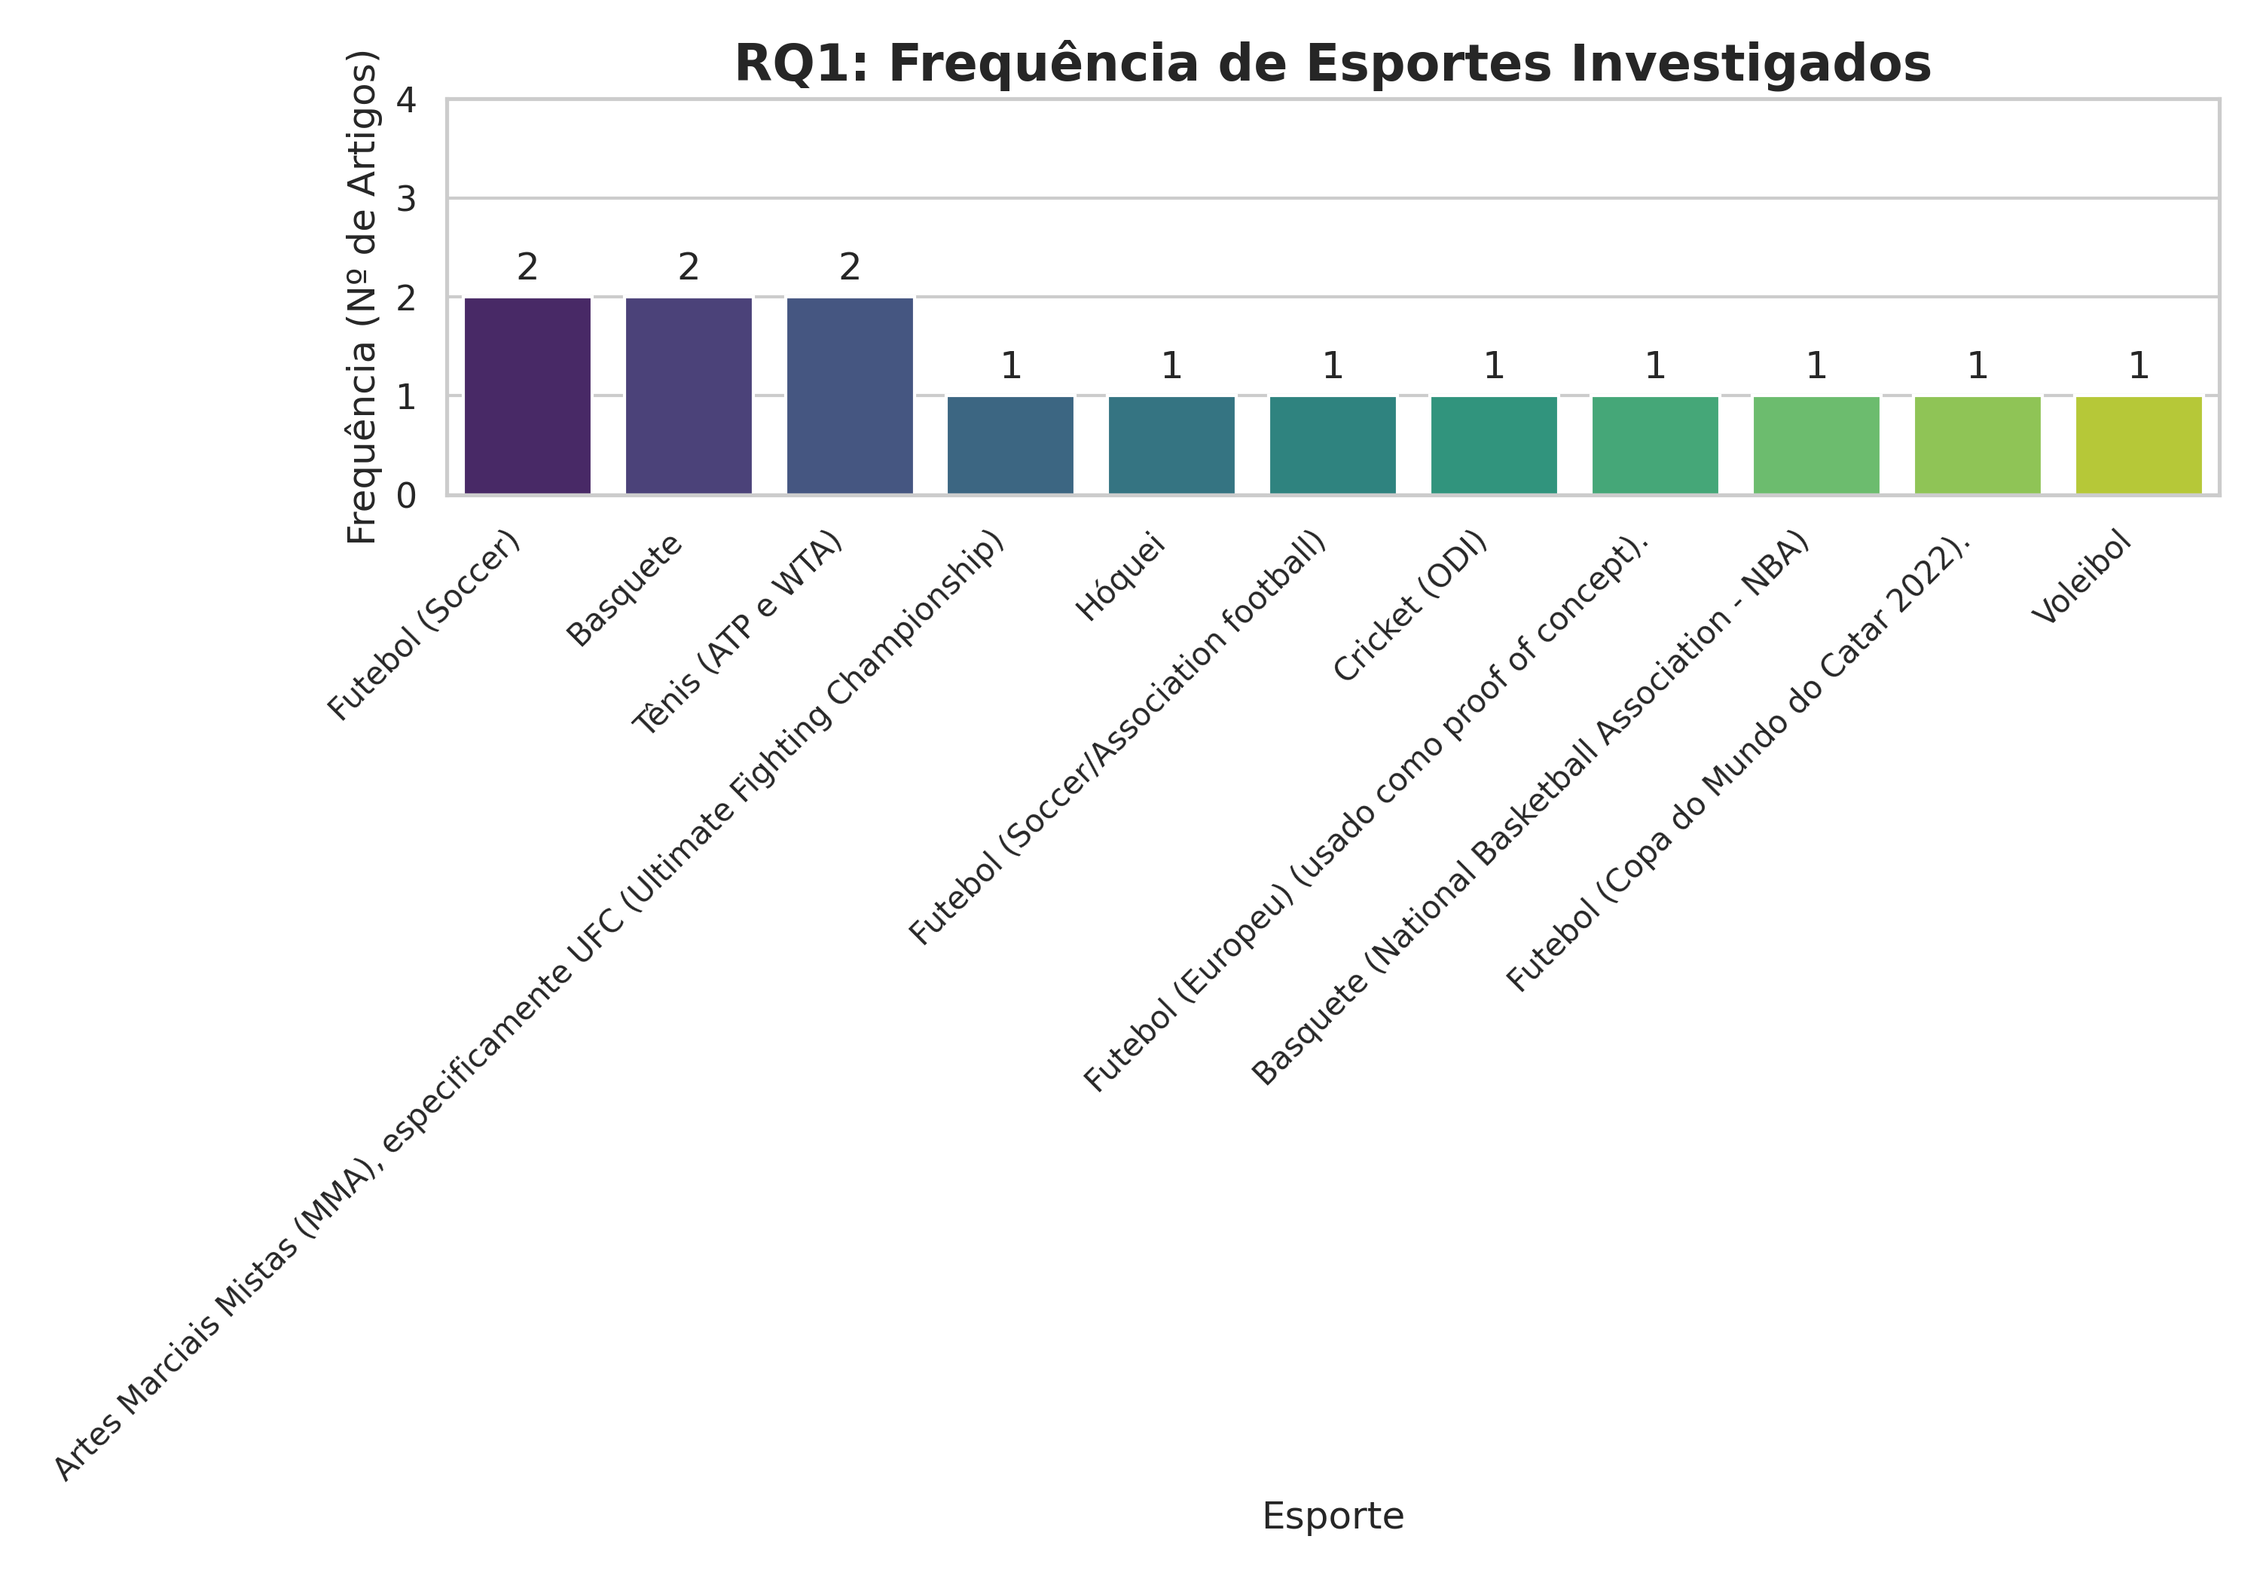
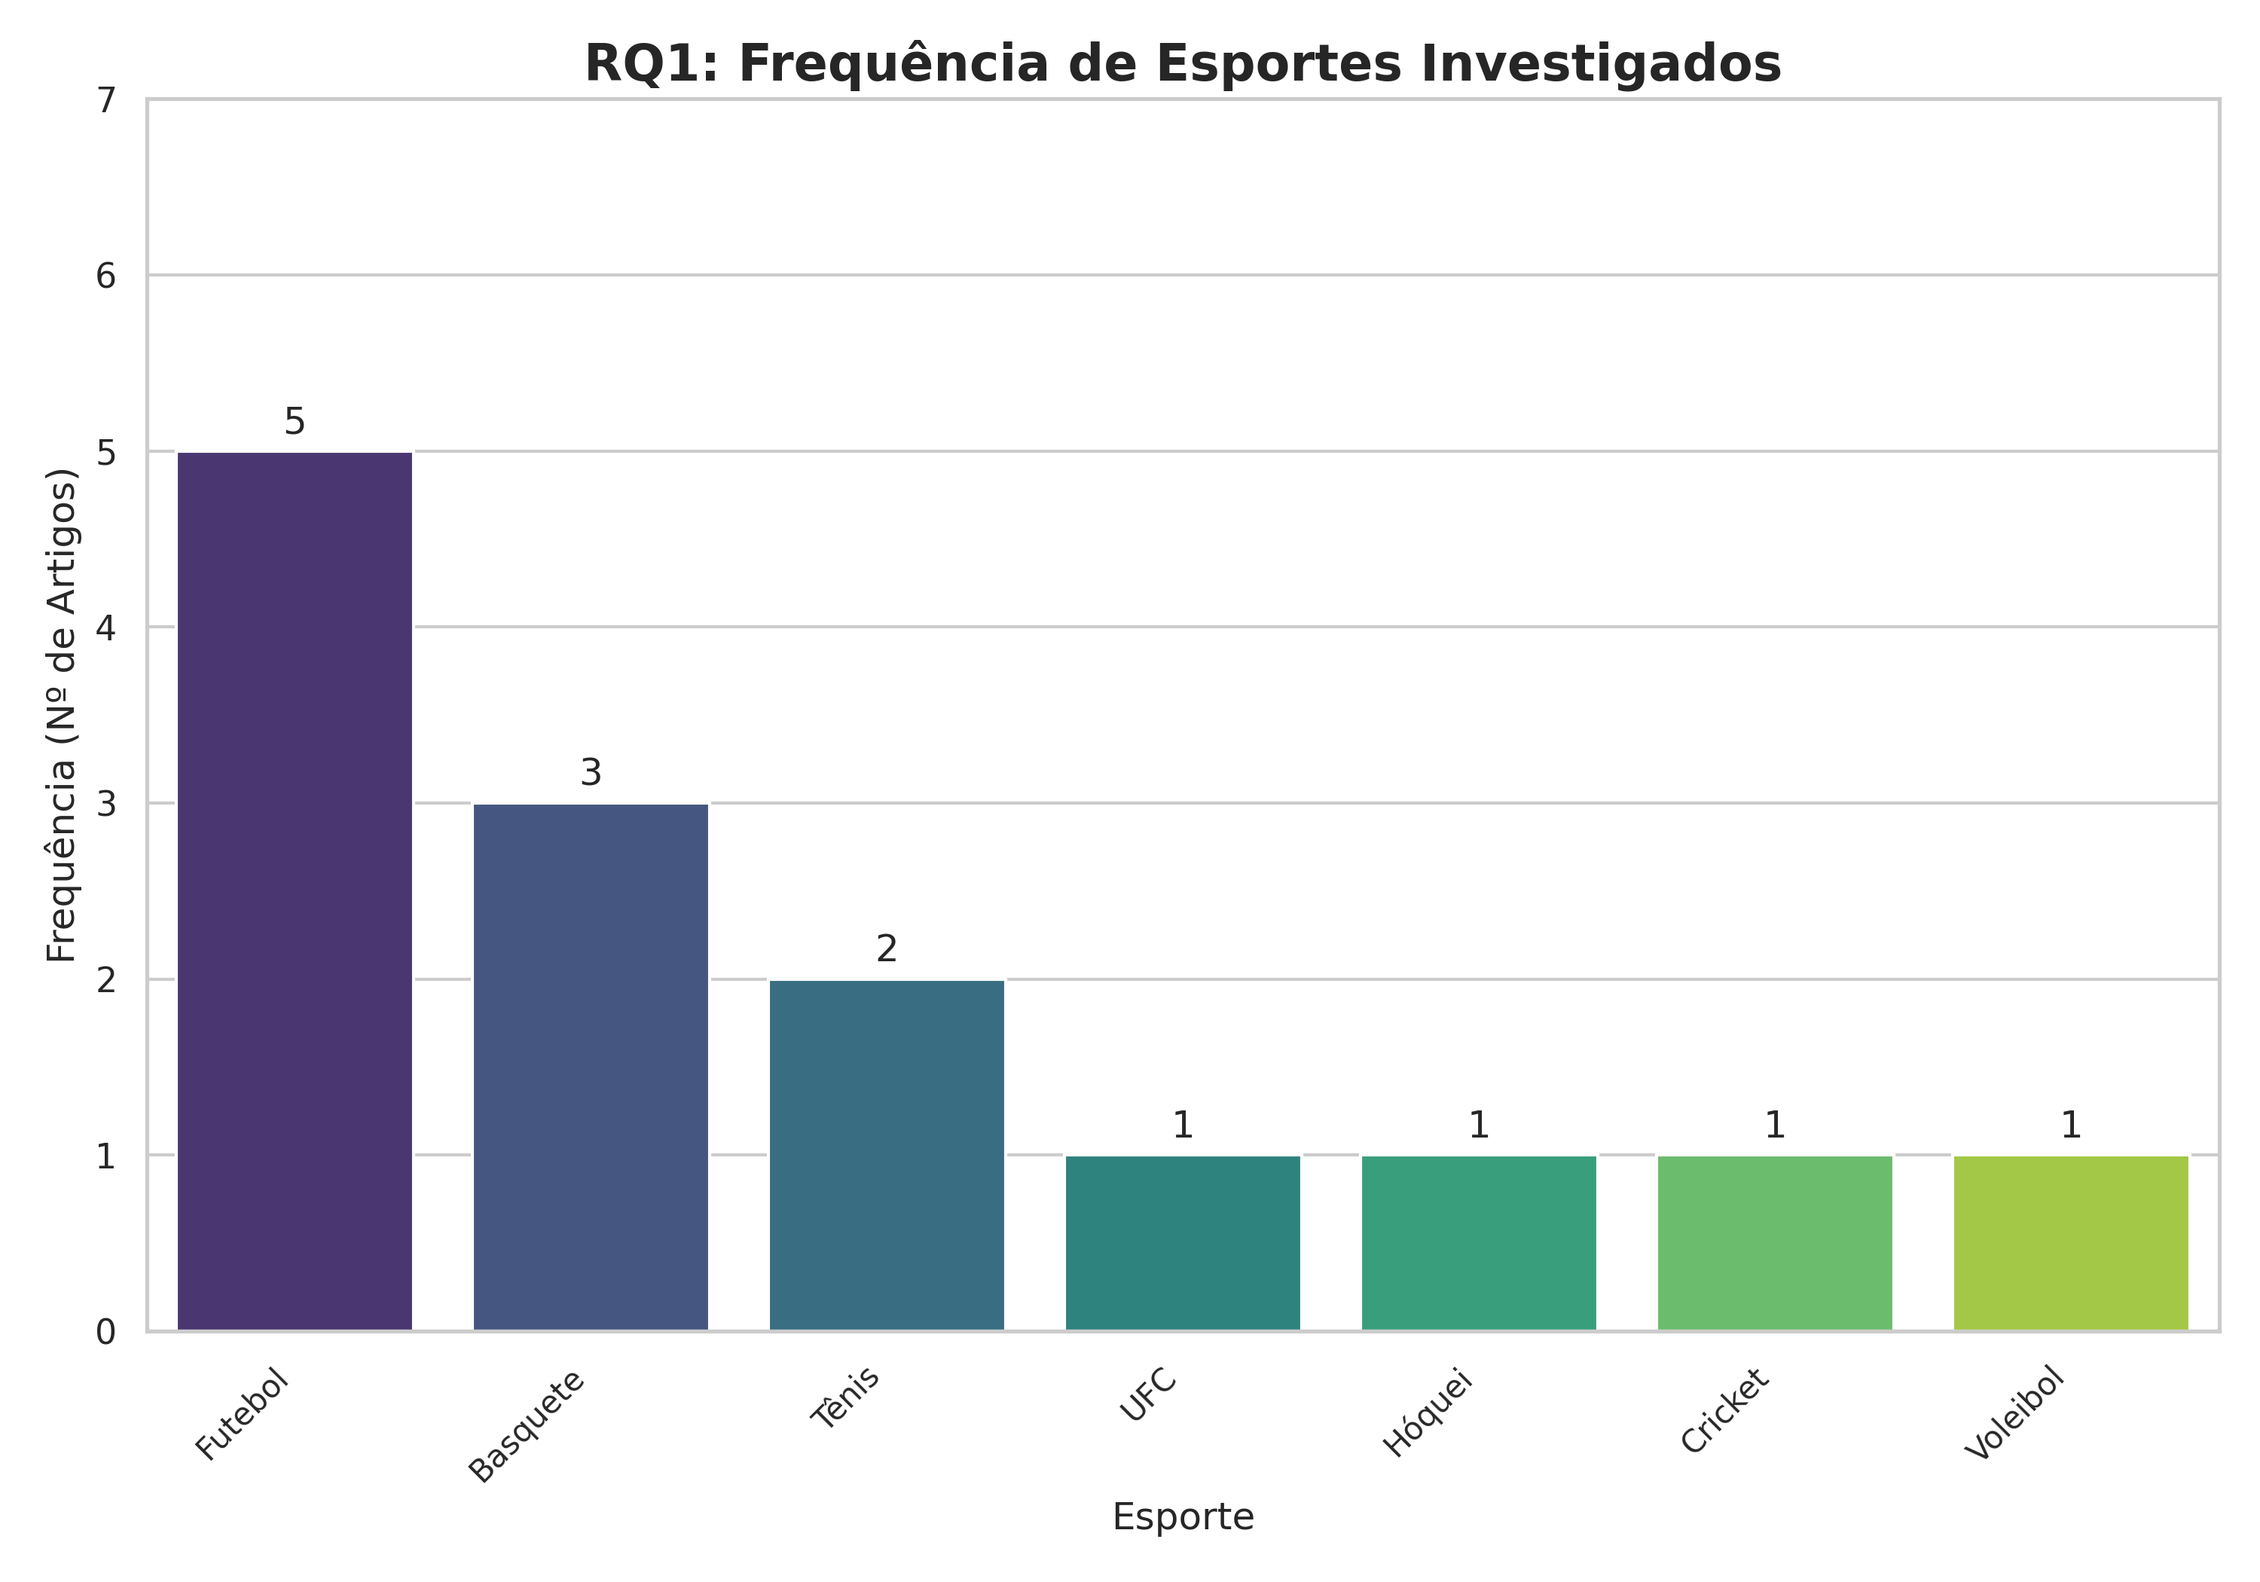
fix: gráficos da RQ1 e RQ2 corrigidos.

diff --git a/ce_graficos.py b/ce_graficos.py
@@ -12,8 +12,8 @@ palette = "viridis"  # Paleta de cores consistente
 def clean_and_normalize_models(series):
     """Limpa e normaliza a coluna 'Técnicas de ML Usadas'."""
     if not pd.api.types.is_string_dtype(series):
-         series = series.astype(str)
-            
+        series = series.astype(str)
+
     model_normalization_map = {
         'RF': 'Random Forest (Ensemble)',
         'Random Forest': 'Random Forest (Ensemble)',
@@ -78,11 +78,9 @@ def clean_and_normalize_models(series):
 
         for model in models:
             model_strip = model.strip()
-            normalized_model = model_normalization_map.get(
-                model_strip, model_strip)
+            normalized_model = model_normalization_map.get(model_strip, model_strip)
 
-            is_noise = any(n.lower() in normalized_model.lower()
-                           for n in noise)
+            is_noise = any(n.lower() in normalized_model.lower() for n in noise)
             if normalized_model and len(normalized_model) > 3 and not is_noise:
                 all_models.append(normalized_model)
 
@@ -92,7 +90,7 @@ def clean_and_normalize_models(series):
 def clean_and_normalize_metrics(series):
     """Limpa e normaliza a coluna 'Métricas de Avaliação'."""
     if not pd.api.types.is_string_dtype(series):
-         series = series.astype(str)
+        series = series.astype(str)
 
     metric_normalization_map = {
         'Accuracy': 'Accuracy (Acurácia)',
@@ -140,22 +138,21 @@ def clean_and_normalize_metrics(series):
 
         for metric in metrics:
             metric_strip = metric.strip()
-            normalized_metric = metric_normalization_map.get(
-                metric_strip, metric_strip)
+            normalized_metric = metric_normalization_map.get(metric_strip, metric_strip)
 
             if normalized_metric and len(normalized_metric) > 2:
                 found = False
                 if metric_strip in metric_normalization_map:
-                     all_metrics.append(metric_normalization_map[metric_strip])
-                     found = True
+                    all_metrics.append(metric_normalization_map[metric_strip])
+                    found = True
                 if not found:
                     for key, value in metric_normalization_map.items():
                         if key.lower() in normalized_metric.lower():
                             all_metrics.append(value)
                             found = True
                             break
-                if not found and len(normalized_metric) > 3 and 'cit' not in normalized_metric:
-                     all_metrics.append(normalized_metric)
+                if not found and len(normalized_metric) > 3 and 'cit' not in normalized_metric.lower():
+                    all_metrics.append(normalized_metric)
 
     return pd.Series(all_metrics).value_counts()
 
@@ -163,10 +160,10 @@ def clean_and_normalize_metrics(series):
 def clean_and_normalize_limitations(df_limit, df_gaps):
     """Codifica tematicamente as colunas 'Limitações' e 'Lacunas'."""
     if not pd.api.types.is_string_dtype(df_limit):
-         df_limit = df_limit.astype(str)
+        df_limit = df_limit.astype(str)
     if not pd.api.types.is_string_dtype(df_gaps):
-         df_gaps = df_gaps.astype(str)
-            
+        df_gaps = df_gaps.astype(str)
+
     theme_map = {
         "Datasets Pequenos / Dados Limitados": r'small|pequenos|tamanho da amostra|sample size|limited data|poucos dados|limited amount of data|data is available',
         "Validação Temporal Inadequada": r'temporal|futuro|past|incorret|k-fold|cross-validation|static|rolling window|train/test split|validation method',
@@ -178,17 +175,17 @@ def clean_and_normalize_limitations(df_limit, df_gaps):
         "Complexidade Computacional": r'computational complexity|complexidade computacional|computational power',
         "Ignora Partidas Empatadas": r'tied|empates|draw',
     }
-    
+
     all_text = df_limit.dropna().astype(str) + " " + df_gaps.dropna().astype(str)
     themes_found = []
-    
+
     for text in all_text:
-        found_in_article = set() 
+        found_in_article = set()
         for theme, pattern in theme_map.items():
             if re.search(pattern, text, re.IGNORECASE):
                 found_in_article.add(theme)
         themes_found.extend(list(found_in_article))
-        
+
     return pd.Series(themes_found).value_counts()
 
 
@@ -197,13 +194,13 @@ def plot_horizontal_bar(data, title, filename, xlabel, ylabel, figsize=(10, 8)):
     if data.empty:
         print(f"Skipping '{filename}' because no data was provided.")
         return
-        
+
     df_plot = data.to_frame(name='Frequência').reset_index().rename(
-        columns={'index': 'Categoria'})
+        columns={'index': 'Categoria'}
+    )
 
     plt.figure(figsize=figsize)
 
-    # A linha 'legend=False' FOI REMOVIDA
     barplot = sns.barplot(
         x='Frequência',
         y='Categoria',
@@ -216,20 +213,20 @@ def plot_horizontal_bar(data, title, filename, xlabel, ylabel, figsize=(10, 8)):
         width = p.get_width()
         plt.text(width + 0.3,
                  p.get_y() + p.get_height() / 2,
-                 f'{int(width)}', 
+                 f'{int(width)}',
                  va='center')
 
     plt.title(title, fontsize=16, fontweight='bold')
     plt.xlabel(xlabel, fontsize=12)
     plt.ylabel(ylabel, fontsize=12)
-    
+
     max_freq = data.max()
     if max_freq < 10:
-         plt.xlim(0, max_freq + 2)
-         plt.xticks(ticks=range(0, int(max_freq) + 3))
+        plt.xlim(0, max_freq + 2)
+        plt.xticks(ticks=range(0, int(max_freq) + 3))
     else:
-         plt.xlim(0, max_freq * 1.15)
-            
+        plt.xlim(0, max_freq * 1.15)
+
     plt.tight_layout()
     plt.savefig(filename, dpi=300)
     print(f"Gráfico salvo: {filename}")
@@ -240,14 +237,13 @@ def plot_vertical_bar(data, title, filename, xlabel, ylabel, figsize=(10, 6)):
     if data.empty:
         print(f"Skipping '{filename}' because no data was provided.")
         return
-            
+
     df_plot = data.to_frame(name='Frequência').reset_index()
     coluna_categoria = df_plot.columns[0]
     df_plot = df_plot.rename(columns={coluna_categoria: 'Categoria'})
 
     plt.figure(figsize=figsize)
 
-    # A linha 'legend=False' FOI REMOVIDA
     barplot = sns.barplot(
         x='Categoria',
         y='Frequência',
@@ -260,85 +256,96 @@ def plot_vertical_bar(data, title, filename, xlabel, ylabel, figsize=(10, 6)):
         height = p.get_height()
         barplot.annotate(format(height, '.0f'),
                          (p.get_x() + p.get_width() / 2., height),
-                         ha = 'center', va = 'center',
-                         xytext = (0, 9),
-                         textcoords = 'offset points')
+                         ha='center', va='center',
+                         xytext=(0, 9),
+                         textcoords='offset points')
 
     plt.title(title, fontsize=16, fontweight='bold')
     plt.xlabel(xlabel, fontsize=12)
     plt.ylabel(ylabel, fontsize=12)
-    
+
     max_freq = data.max()
     if max_freq < 10:
-         plt.ylim(0, max_freq + 2)
-         plt.yticks(ticks=range(0, int(max_freq) + 3))
+        plt.ylim(0, max_freq + 2)
+        plt.yticks(ticks=range(0, int(max_freq) + 3))
     else:
-         plt.ylim(0, max_freq * 1.15)
-    
+        plt.ylim(0, max_freq * 1.15)
+
     # Rotação SÓ SE NECESSÁRIO
     if len(data) > 6 or max(len(str(s)) for s in data.index) > 10:
         plt.xticks(rotation=45, ha='right', fontsize=10)
     else:
         plt.xticks(rotation=0, ha='center', fontsize=11)
-            
+
     plt.tight_layout()
     plt.savefig(filename, dpi=300)
     print(f"Gráfico salvo: {filename}")
 
 
+def normalize_sport(value: str):
+    """Normaliza o nome do esporte em categorias padrão."""
+    if pd.isna(value):
+        return None
+
+    text = str(value).strip()
+    text_lower = text.lower()
+
+    # Lixo / casos que queremos remover
+    if ("não se aplica" in text_lower or "nao se aplica" in text_lower or
+            "indústria" in text_lower or "industria" in text_lower):
+        return None
+
+    # Futebol
+    if "futebol" in text_lower or "soccer" in text_lower or "european football" in text_lower:
+        return "Futebol"
+
+    # Basquete / NBA
+    if "basket" in text_lower or "basquete" in text_lower or "nba" in text_lower:
+        return "Basquete"
+
+    # Tênis
+    if "tênis" in text_lower or "tenis" in text_lower or "tennis" in text_lower:
+        return "Tênis"
+
+    # Hóquei
+    if "hockey" in text_lower or "hóquei" in text_lower or "hoquei" in text_lower:
+        return "Hóquei"
+
+    # Futebol Americano / NFL
+    if "futebol americano" in text_lower or "american football" in text_lower or "nfl" in text_lower:
+        return "Futebol Americano"
+
+    # Cricket
+    if "cricket" in text_lower:
+        return "Cricket"
+
+    # Voleibol
+    if "voleibol" in text_lower or "volleyball" in text_lower:
+        return "Voleibol"
+
+    # UFC / MMA
+    if "mma" in text_lower or "ufc" in text_lower or "artes marciais mistas" in text_lower:
+        return "UFC"
+
+    # Se não bate em nada, devolve o texto original só pra não perder informação
+    return text
+
+
 # --- Execução Principal (VERSÃO FINAL CORRIGIDA) ---
 try:
     # Verifique se o nome do seu arquivo CSV está correto aqui
-    file_name = "14 - 14.csv" 
+    file_name = "14 - 14.csv"
     df = pd.read_csv(file_name, encoding="utf-8")
     print(f"Planilha '{file_name}' carregada com sucesso.")
 
     # --- RQ1 (Panorama - Gráfico 1): Esportes ---
-    
-    # Assegura que a coluna é string e remove espaços extras
-    df['Esporte_Limpo'] = df['Esporte'].astype(str).str.strip()
+    df['Esporte_Normalizado'] = df['Esporte'].apply(normalize_sport)
+    sport_counts = df['Esporte_Normalizado'].dropna().value_counts()
 
-    # 1. Filtra lixo PRIMEIRO
-    mascara_filtro = df['Esporte_Limpo'].str.contains("Não se aplica|indústria", na=False, case=False)
-    df_filtrado_rq1 = df[~mascara_filtro].copy()
-
-    # 2. CRIA O MAPA DE NORMALIZAÇÃO (PARA UNIFICAR E ENCURTAR)
-    # Este mapa é a correção principal para o seu problema
-    sport_normalization_map = {
-        # Futebol
-        'Futebol': 'Futebol',
-        'Soccer': 'Futebol',
-        # Basquete
-        'Basquete (NBA)': 'Basquete',
-        'Basquete': 'Basquete',
-        # Tênis
-        'Tênis': 'Tênis',
-        # Hóquei
-        'Ice Hockey (NHL)': 'Hóquei',
-        # Futebol Americano
-        'Futebol Americano (Sim.)': 'Futebol Americano',
-        # Cricket
-        'Cricket': 'Cricket',
-        # Voleibol
-        'Voleibol (SuperLiga Brasileira)': 'Voleibol',
-        'Voleibol': 'Voleibol',
-        # UFC
-        'MMA (UFC)': 'UFC',
-        'UFC': 'UFC',
-        'Artes Marciais Mistas (MMA)': 'UFC'
-    }
-
-    # 3. Aplica o mapa
-    # O .get(x, x) significa: "Tente encontrar 'x' no mapa. Se não encontrar, use 'x' (o valor original)."
-    df_filtrado_rq1['Esporte_Limpo'] = df_filtrado_rq1['Esporte_Limpo'].apply(lambda x: sport_normalization_map.get(x, x))
-    
-    # 4. Agora, conta os valores
-    sport_counts = df_filtrado_rq1['Esporte_Limpo'].value_counts()
-    
     plot_vertical_bar(
         data=sport_counts,
         title="RQ1: Frequência de Esportes Investigados",
-        filename="RQ1_Esportes_Frequencia.png",  
+        filename="RQ1_Esportes_Frequencia.png",
         xlabel="Esporte",
         ylabel="Frequência (Nº de Artigos)",
         figsize=(10, 7)
@@ -350,17 +357,17 @@ try:
     plot_vertical_bar(
         data=year_counts,
         title="RQ1: Evolução das Publicações por Ano",
-        filename="RQ1_Publicacoes_por_Ano.png",  
+        filename="RQ1_Publicacoes_por_Ano.png",
         xlabel="Ano de Publicação",
-        ylabel="Frequência (Nos de Artigos)"
+        ylabel="Frequência (Nº de Artigos)"
     )
 
     # --- RQ2: Modelos de ML ---
     model_counts = clean_and_normalize_models(df['Técnicas de ML Usadas'])
     plot_horizontal_bar(
-        data=model_counts.head(10),  
+        data=model_counts.head(10),
         title="RQ2: Frequência de Modelos de ML Utilizados (Top 10)",
-        filename="RQ2_Modelos_Frequencia.png", 
+        filename="RQ2_Modelos_Frequencia.png",
         xlabel="Frequência (Nº de Artigos)",
         ylabel="Família do Modelo"
     )
@@ -376,8 +383,7 @@ try:
     )
 
     # --- RQ4: Lacunas e Limitações (Quantitativo) ---
-    limitation_counts = clean_and_normalize_limitations(
-        df['Limitações'], df['Lacunas'])
+    limitation_counts = clean_and_normalize_limitations(df['Limitações'], df['Lacunas'])
     plot_vertical_bar(
         data=limitation_counts,
         title="RQ4: Frequência de Limitações e Lacunas Reportadas",
